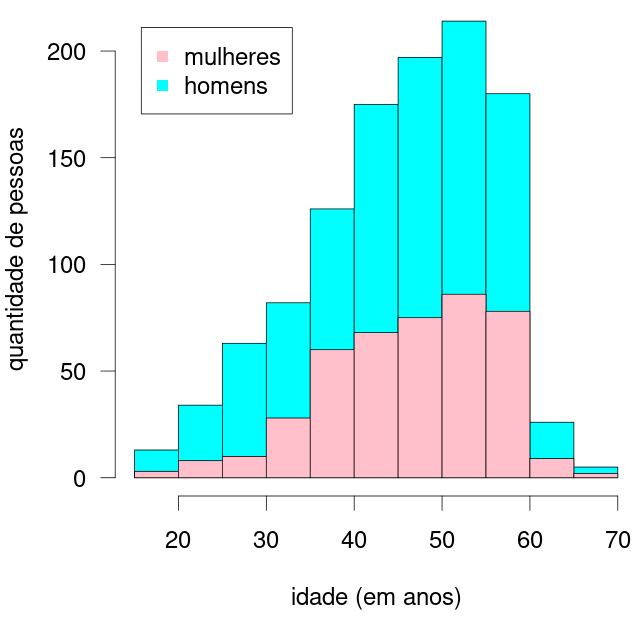
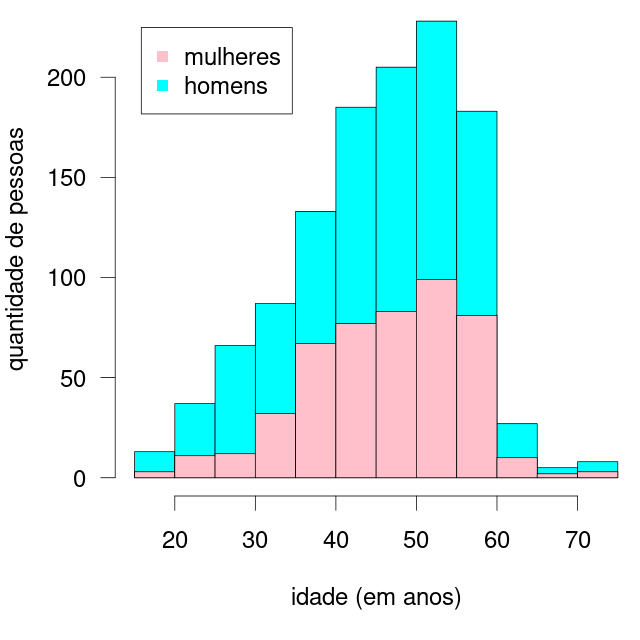
Update for final list on 2023-01-12

diff --git a/README.md b/README.md
@@ -11,13 +11,17 @@ na [ṕagina da SEAPE](https://seape.df.gov.br/prisoes-dos-atentados-bsb/), cont
 
 ## Análise
 
-A [lista atual](presos.csv) (em 12 de janeiro de 2023) contém 1138 nomes, sendo 442 mulheres e 696 homens. Há 13 pessoas cujas datas de nascimento não estão informadas no arquivo da SEAPE. Pessoas com data de nascimento inferior a 19 anos (1 pessoa) e superior a 70 anos (9 pessoas) foram suprimidas da análise, pois acredito tratar-se de erros de digitação. A data de nascimento de uma pessoa foi corrigida de “1696” para “1996”. A análise aqui presente é assim relativa a 1115 pessoas (427 mulheres e 688 homens).
+A [lista atual](presos.csv), na data 12 de janeiro de 2023, contém 1193 nomes. Esta lista não corresponde à ultima listagem disponibilizada pela SEAPE. Todos os nomes que figuravam nas listas previamente publicadas foram mantidos.
+
+Destas 1183 pessoas, 494 são mulheres e 699 são homens. Há 10 pessoas cujas datas de nascimento não estão informadas no arquivo da SEAPE. Uma pessoa com idade inferior a 18 anos e uma pessoa com idade de 86 anos foram suprimidas da análise, pois acredito tratar-se de erros de digitação. A data de nascimento de uma pessoa foi corrigida de “1696” para “1996”. A análise aqui presente é assim relativa a 1177 pessoas (480 mulheres e 697 homens).
 
 A distribuição de idades é mostrada no gráfico abaixo, com as pessoas agrupadas em faixas etárias de 5 anos. Mulheres são representadas na cor rosa e homens na cor azul.
 
 ![figure](histograma-idades.png)
 
-A idade mínima é de 18,5 anos e a máxima de 67,1 anos. 68,1% das pessoas têm entre 40 e 60 anos e 36,5% deles têm entre 45 e 55 anos. Está claro que o grosso do contingente é formado por pessoas de meia idade. A média de idade das mulheres é de 46,6 anos e a dos homens é de 44,7 anos. Esta diferença de idade de quase 2 anos entre homens e mulheres é estatisticamente significativa (_p_ < 0.01).
+A idade mínima é de 18,5 anos e a máxima de 74.8 anos. 68,1% das pessoas têm entre 40 e 60 anos e 36,8% deles têm entre 45 e 55 anos. Está claro que o grosso do contingente é formado por pessoas de meia idade.
+
+A média de idade das mulheres é de 46,3 anos e a dos homens é de 44,6 anos. Esta diferença de idade de quase 2 anos entre homens e mulheres é estatisticamente significativa (_p_ < 0.01).
 
 Cabe observar que a faixa de idade com maior representatividade entre as mulheres é entre 50 e 55 anos.
 
